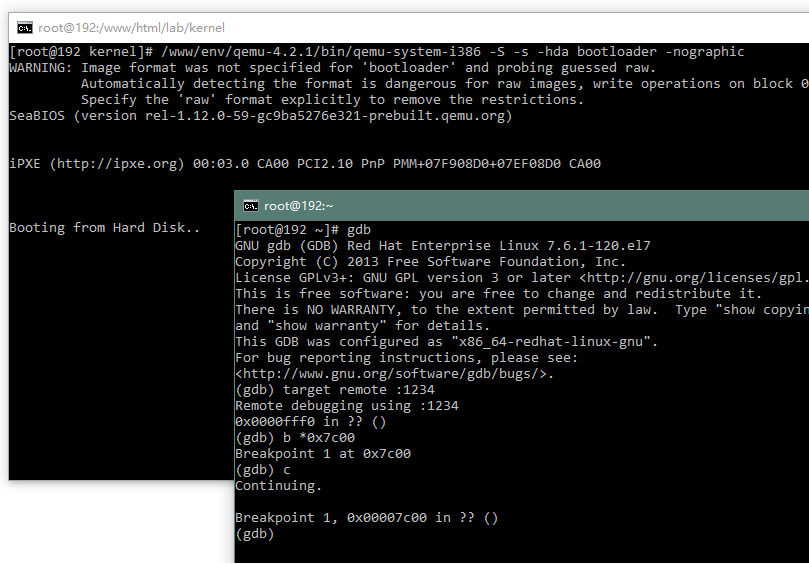
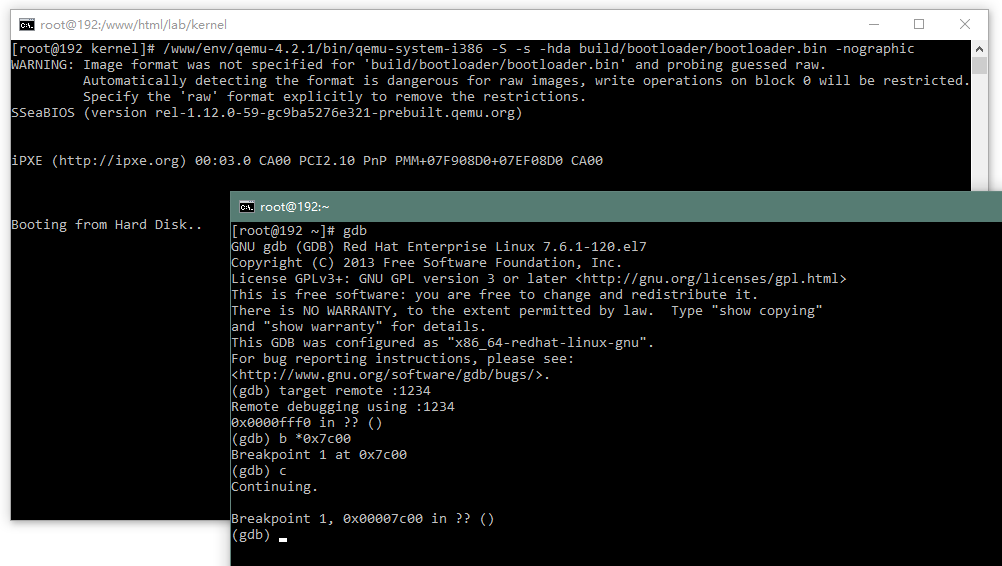
Site updated: 2021-04-02 16:51:32

Changed region(s): [[0.0, 0.3316, 1.0, 1.0], [0.0, 0.0, 1.0, 0.3617], [0.0, 0.2713, 0.7417, 0.3014]]

diff --git a/2021/03/17/jos-1-bootloader/index.html b/2021/03/17/jos-1-bootloader/index.html
@@ -66,6 +66,11 @@
 <li>将 <code>boot.o</code> 和 <code>loader.o</code> 链接为 <code>bootloader.tmp</code>，链接后的入口为 <code>start</code>，.text section 起始地址为 <code>0x7c00</code></li>
 <li><code>bootloader.tmp</code> 已经是标准的 executable ELF binary，但现阶段一切还是 “裸跑” 的，ELF 对于我们来说并没有意义，需要把 .text section 给 copy 出来，再使用 <code>sign.pl</code> 稍微修改下使其满足 MBR 的要求，最终产物即 <code>bootloader.bin</code></li>
 </ol>
+<p><code>make</code> 效果：</p>
+<p><img src="/images/jos-bootloader/make_bootloader.png"></p>
+<p>此时的目录：</p>
+<figure class="highlight plain"><table><tr><td class="gutter"><pre><span class="line">1</span><br><span class="line">2</span><br><span class="line">3</span><br><span class="line">4</span><br><span class="line">5</span><br><span class="line">6</span><br><span class="line">7</span><br><span class="line">8</span><br><span class="line">9</span><br><span class="line">10</span><br><span class="line">11</span><br></pre></td><td class="code"><pre><span class="line">- bootloader&#x2F;</span><br><span class="line">    - boot.S</span><br><span class="line">    - loader.c</span><br><span class="line">    - sign.pl</span><br><span class="line">- build&#x2F;</span><br><span class="line">    - bootloader&#x2F;</span><br><span class="line">        - bootloader.bin</span><br><span class="line">        - bootloader.tmp</span><br><span class="line">        - boot.o</span><br><span class="line">        - loader.o</span><br><span class="line">- Makefile</span><br></pre></td></tr></table></figure>
+
 <h2 id="debug"><a href="#debug" class="headerlink" title="debug"></a>debug</h2><p><a target="_blank" rel="noopener" href="https://www.qemu.org/">QEMU</a> 可以不用编译全部 arch 否则会非常慢，但一定要包含 i386，<code>qemu-system-i386 -S -s -hda bootloader.bin -nographic</code> 将 bootloader 读到启动盘，新开 tty 使用 gdb <code>target remote :1234</code> 交互 debug，断点打到 <code>0x7c00</code> 可以看到 SeaBIOS “Booting from Hard Disk..” 的提示：</p>
 <p><img src="/images/jos-bootloader/booting.png"></p>
 <p>gdb 侧使用 <code>set disassemble-next-line on</code> 配合 <code>si</code> 单步调试可以看到下一行将要执行的代码：</p>
